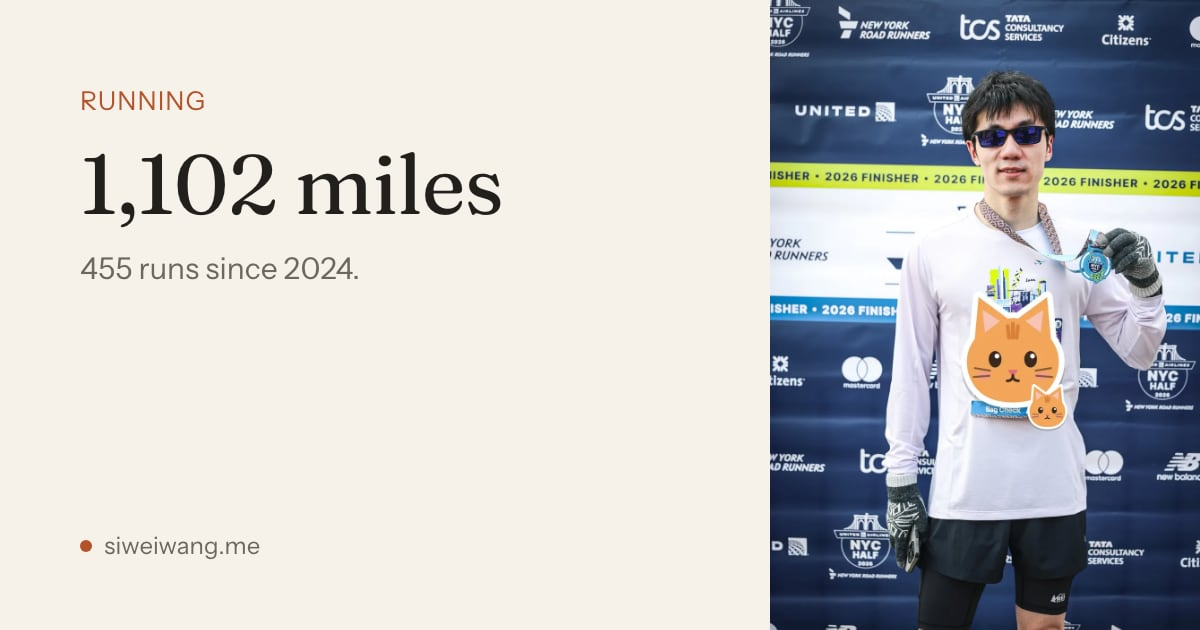
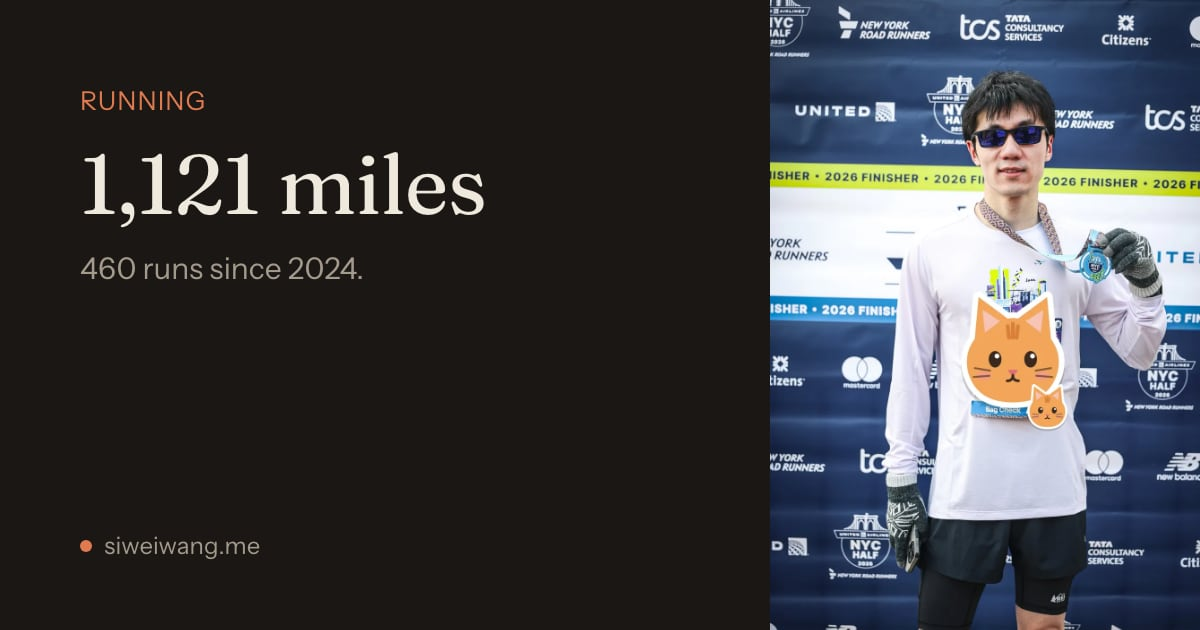
Running: runs since the last export via the Strava connector (460 runs, 1,121 mi); October 2026 half marathon milestone

diff --git a/scripts/running-stats.ts b/scripts/running-stats.ts
@@ -1,6 +1,7 @@
 // running:stats — summarise a Strava bulk export into src/data/running.json (aggregates only).
 //
-//   pnpm running:stats            reads strava-export/*/activities.csv (gitignored)
+//   pnpm running:stats            reads strava-export/*/activities.csv (gitignored), plus runs since that export in
+//                                 strava-export/recent.json (pulled through the Strava connector), if present
 //
 // Only totals leave the export: no activity names, dates, routes, GPS, heart rate or times of day.
 import { existsSync } from 'node:fs';
@@ -27,6 +28,21 @@ const runs = rows
   .filter((r) => /run/i.test(r[iType] ?? ''))
   .map((r) => ({ date: new Date(`${r[iDate]} UTC`), meters: parseFloat(r[iMeters]) || 0, moving: parseFloat(r[iMoving]) || 0 }))
   .filter((r) => r.meters > 0 && !isNaN(+r.date));
+
+// Newer runs from the Strava connector ({start_local, sport_type, distance, moving_time}). A run already in the
+// export (same distance within 1%, start within a day: local vs UTC clocks) is skipped.
+const RECENT = join(EXPORT_DIR, 'recent.json');
+if (existsSync(RECENT)) {
+  const recent: { start_local: string; sport_type: string; distance: number; moving_time: number }[] = JSON.parse(await readFile(RECENT, 'utf8'));
+  let added = 0;
+  for (const a of recent) {
+    if (!/run/i.test(a.sport_type) || !(a.distance > 0)) continue;
+    const date = new Date(`${a.start_local}Z`);
+    const dup = runs.some((r) => Math.abs(+r.date - +date) < 864e5 && Math.abs(r.meters - a.distance) <= a.distance * 0.01);
+    if (!dup) (runs.push({ date, meters: a.distance, moving: a.moving_time }), added++);
+  }
+  console.log(`${RECENT}: ${added} newer runs added`);
+}
 
 const byYear = new Map<number, { runs: number; meters: number }>();
 for (const r of runs) {
